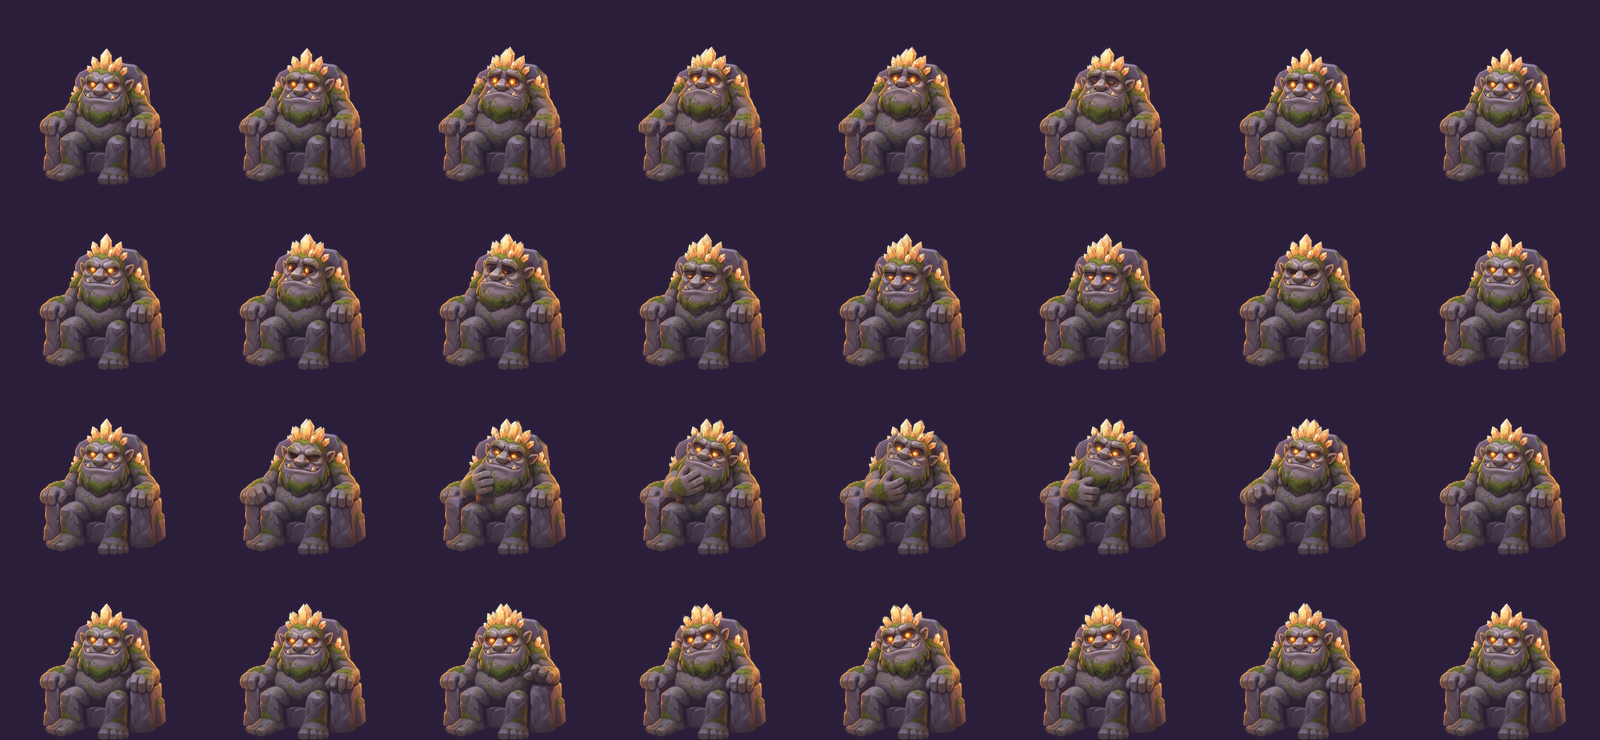
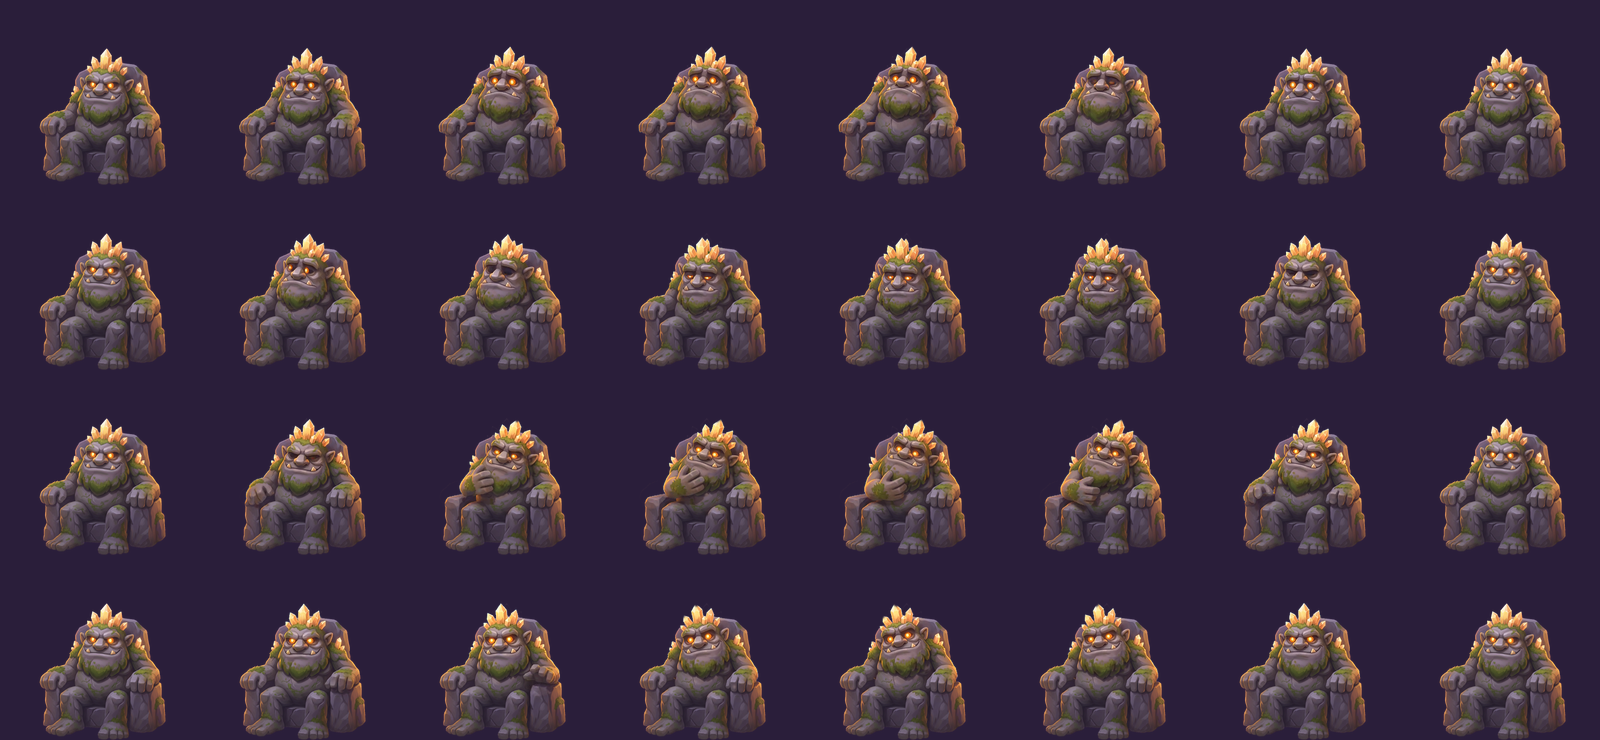
lock.py: the 'nothing may vanish' rule applies to the prop only (--keep throne mask) — applied to the whole outline it pasted the home crown back where the head had moved: two crowns
Claude-Session: https://claude.ai/code/session_01P1SBSFHJDq1QW9JyHy4AYu

diff --git a/skill/sprite-pipeline/scripts/lock.py b/skill/sprite-pipeline/scripts/lock.py
@@ -2,10 +2,12 @@
 """Static lock: cut gestures out of FIRST+LAST-FRAME H3 clips so that only what really moves comes from the clip
 and every other pixel is the home picture itself — the throne, legs and body cannot shimmer or drift in colour.
 
-usage: lock.py OUT --home HOME.png --at X,Y CLIP.mp4=name,name,name,name [CLIP2.mp4=…]
+usage: lock.py OUT --home HOME.png --at X,Y [--keep PROP_MASK.png] CLIP.mp4=name,name,name,name [CLIP2.mp4=…]
                [--pose-s 1.0] [--thresh 30] [--grow 6] [--feather 3] [--cell 479,444 --pivot 245.6,442.8 --fig 327]
                [--step 2] [--webp 70]
 
+--keep is a mask (frame-sized, white = prop) of what is NOT the character — a throne, a stand: there, pixels the
+clip erases come back from home. Nowhere else: a head that moves leaves real empty space behind it.
 HOME.png is the clean RGBA cut-out of the character that was composited onto the flat first/last frame picture at
 offset X,Y (the same pixels the clip starts from). Per frame:
   1. difference to the clip's own first frame over the figure (max over RGB, blurred 1.5 px) -> moving mask = diff > --thresh, opened,
@@ -29,7 +31,7 @@ FPS = 24
 
 def main():
     ap = argparse.ArgumentParser(); ap.add_argument("out"); ap.add_argument("clips", nargs="+")
-    ap.add_argument("--home", required=True); ap.add_argument("--at", required=True)
+    ap.add_argument("--home", required=True); ap.add_argument("--keep"); ap.add_argument("--at", required=True)
     ap.add_argument("--pose-s", type=float, default=1.0); ap.add_argument("--thresh", type=float, default=30)
     ap.add_argument("--grow", type=int, default=6); ap.add_argument("--feather", type=float, default=3)
     ap.add_argument("--cell", default="479,444"); ap.add_argument("--pivot", default="245.6,442.8"); ap.add_argument("--fig", type=float, default=327)
@@ -48,6 +50,7 @@ def main():
         home = np.zeros((H, W, 4)); home[oy:oy + cut.shape[0], ox:ox + cut.shape[1]] = cut
         ha = home[..., 3] / 255; fig = ha > 0.5
         body = ndi.binary_erosion(fig, iterations=4)
+        keep = (np.asarray(Image.open(a.keep).convert("L"), dtype=float) > 128) if a.keep else np.zeros_like(fig)
         region = ndi.binary_dilation(fig, iterations=24)       # where a gesture may reach past the outline
         frames, masks = [], []
         # motion is measured against the clip's OWN first frame (the model's render of the picture): measured against
@@ -67,8 +70,10 @@ def main():
             m = ndi.binary_dilation(m, iterations=a.grow) & region
             # nothing in the home picture may vanish: where the clip shows bare ground INSIDE the home outline (the model
             # erased a corner of the throne behind a raised arm or the crown), home stays
+            # — but only for the PROP (--keep: a mask of what is not the character, e.g. the throne). Applied to the whole
+            # outline, it pasted the home crown back where the head had just moved away from: two crowns.
             kq = int(np.argmax(bg)); gone = fig & ((rgb[..., kq] - np.delete(rgb, kq, 2).max(2)) > 40)
-            m &= ~ndi.binary_dilation(gone, iterations=2)
+            m &= ~ndi.binary_dilation(gone & keep, iterations=2)
             mf = np.clip(ndi.gaussian_filter(m.astype(float), a.feather), 0, 1)
             # local colour match on a ring of body just outside the moving area
             ring = m & body          # the moving area itself, against the same pixels of the clip's first frame
@@ -81,7 +86,8 @@ def main():
             # backdrop — a distance key kept it and the spill clamp turned it teal
             kc0 = int(np.argmax(bg)); o0 = [c for c in range(3) if c != kc0]
             dom = rgb[..., kc0] - rgb[..., o0].max(2)
-            fa = np.where(fig, 1.0, np.clip((60 - dom) / 40, 0, 1))
+            # inside the home outline the figure is opaque — except where the character moved away and left bare ground
+            fa = np.where(fig & ~(gone & ~keep), 1.0, np.clip((60 - dom) / 40, 0, 1))
             # spill: the ground's dominant channel bleeds into glows and edges (a blue rim round the crown) — clamp
             # it to the other two channels wherever the pixel is at the outline or outside it
             kc = int(np.argmax(bg)); oth = [c for c in range(3) if c != kc]
